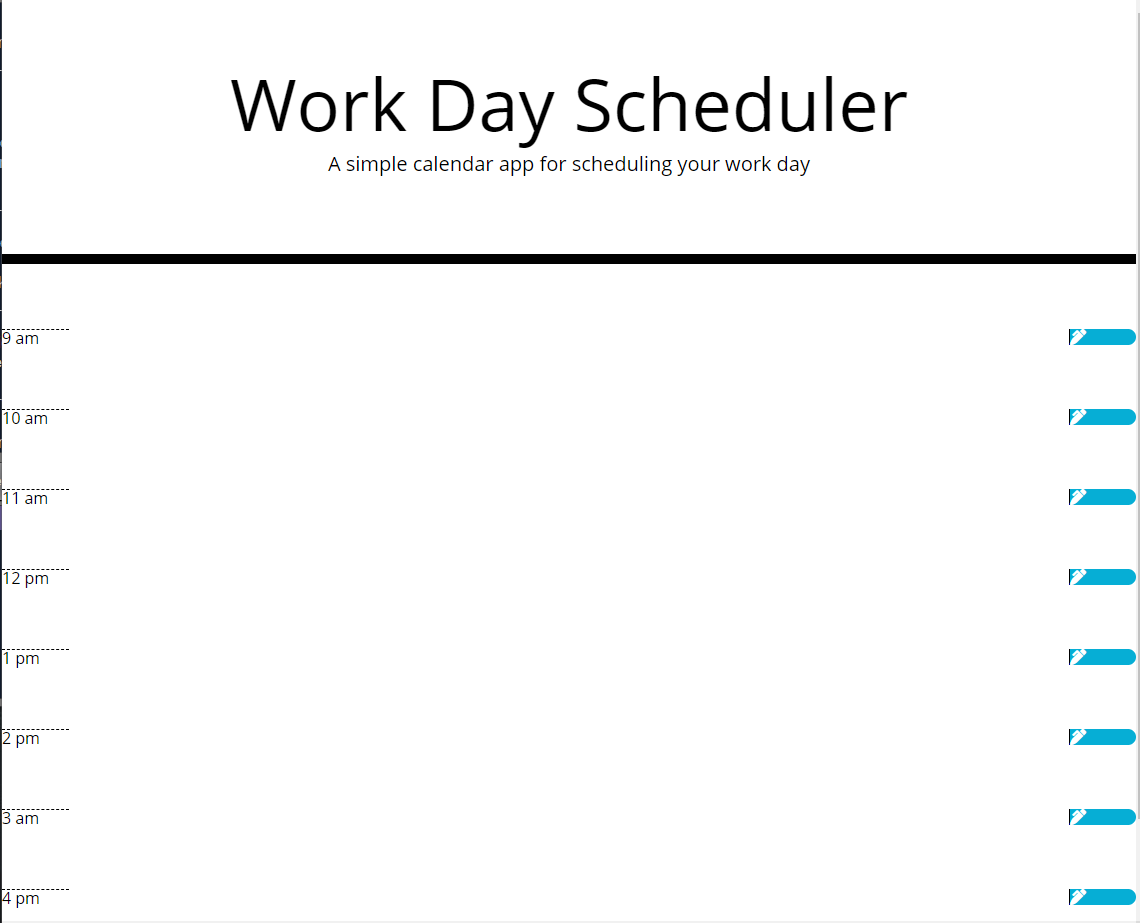
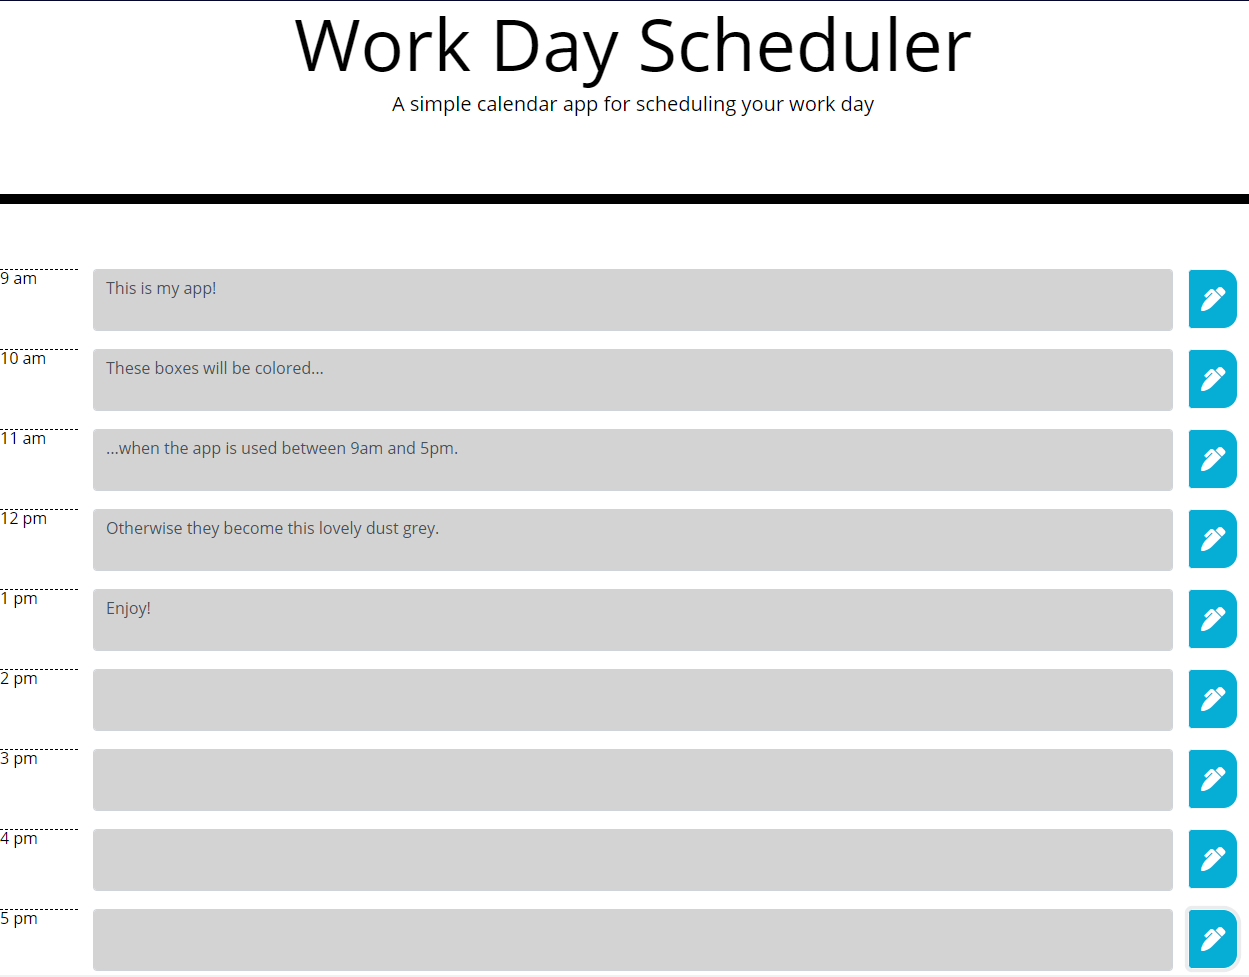
updated screenshot for README

diff --git a/style.css b/style.css
@@ -15,6 +15,7 @@ textarea{
 
 .form-control {
   background-color: #97eb19;
+  margin: 0px;
 }
 
 .jumbotron {
@@ -63,14 +64,24 @@ textarea{
 }
 
 .saveBtn {
-  border-left: 1px solid black;
   border-top-right-radius: 15px;
   border-bottom-right-radius: 15px;
   background-color: #06AED5;
   color: white;
+  font-size: x-large;
+  padding-top: 11px;
+  padding-bottom: 11px;
+  margin-left: 0px;
 }
 
 .saveBtn i:hover {
   font-size: 20px;
   transition: all .3s ease-in-out;
 }
+
+.col-10 {
+  padding-right: 0px;
+  padding-left: 0px;
+}
+
+

diff --git a/index.html b/index.html
@@ -25,10 +25,9 @@
     <div class="row">
       <input style="display: none" type="hidden" name="hour" value="9">
       <div class="col col-1">
-        <div class="hour">
-          9 am
-        </div>
+        <div class="hour">9 am</div>
       </div>
+
 
       <div class="col col-10">
         <div class="input-group">

diff --git a/README.md b/README.md
@@ -1,7 +1,6 @@
 # color-scheduler
 
 ## Description
-
 Daily schedule planner; save your schedule online and plan your day!
 
 ## Installation
@@ -12,6 +11,5 @@ And the website can be previewed from github at this link:
 https://kkh-pixel.github.io/color-scheduler
 
 ## Screenshot
-```md
-![website screenshot](assets/screenshot.png)
-```
+
+![website screenshot](assets/screenshot.PNG)
